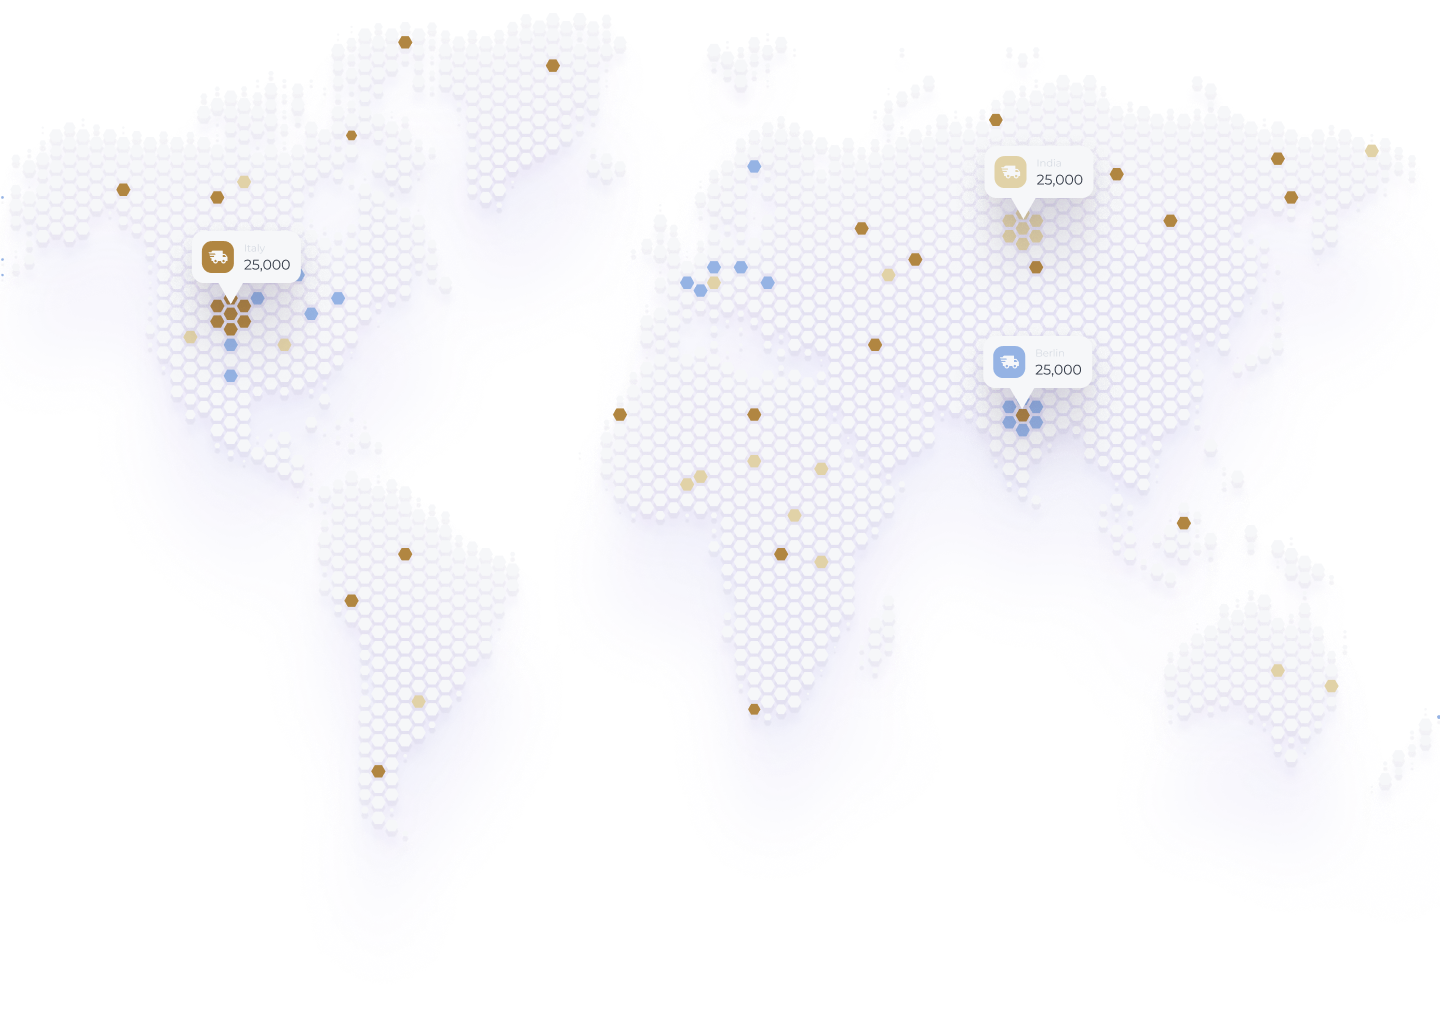
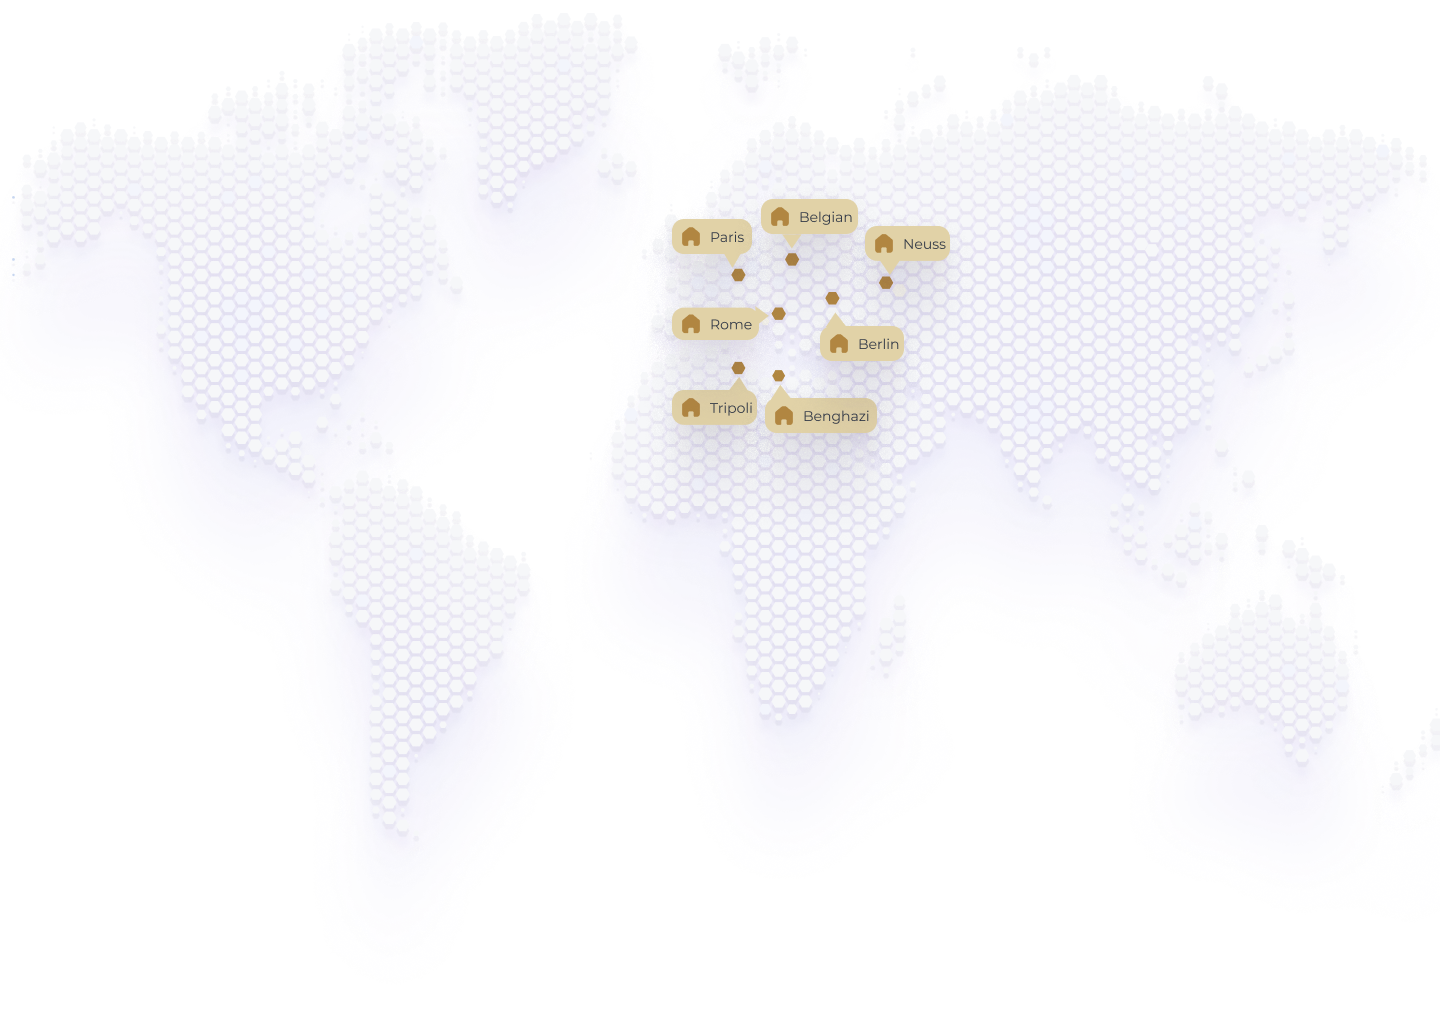
warehouses section

diff --git a/src/app/components/pages/publicPages/Home/Warehouses.tsx b/src/app/components/pages/publicPages/Home/Warehouses.tsx
@@ -1,48 +1,77 @@
-// 'use client';
-// import Title from '@/app/components/ui/Title';
-// import { useTranslations } from '@/app/hooks/useTranslations';
-// import warehouses from "../../../../../../public/warehouses-maps.png"
-// import Image from 'next/image';
-
-
-// export default function Wrehouses() {
-//     const t = useTranslations();
-
-//     return (
-//         <div className="pt-12 bg-bg-dark">
-//             <Title title={t('warehouses')} className="justify-center text-center text-lg sm:text-xl" />
-//             <Image src={warehouses} alt="warehouses" className='container py-12' />
-//         </div>
-//     );
-// }
-
 'use client';
 import Image from 'next/image';
-import { useState } from 'react';
+import { useEffect, useState, useRef } from 'react';
 import Title from '@/app/components/ui/Title';
 import { useTranslations } from '@/app/hooks/useTranslations';
-import warehousesDefault from "../../../../../../public/warehouses-default.png"
-import warehouses from "../../../../../../public/warehouses-maps.png"
+import warehousesDefault from "../../../../../../public/warehouses-default.png";
+import warehouses from "../../../../../../public/warehouses-maps.png";
+import Link from 'next/link';
+import { Button } from 'rizzui';
 
 export default function Warehouses() {
     const t = useTranslations();
-    const [hover, setHover] = useState(false);
+    const [isVisible, setIsVisible] = useState(false);
+    const sectionRef = useRef<HTMLDivElement | null>(null);
+
+    useEffect(() => {
+        const section = sectionRef.current;
+        if (!section) return;
+
+        const observer = new IntersectionObserver(
+            ([entry]) => {
+                setIsVisible(entry.intersectionRatio >= 0.6);
+            },
+            {
+                root: null,
+                threshold: Array.from({ length: 101 }, (_, i) => i / 100),
+            }
+        );
+
+        observer.observe(section);
+        return () => observer.unobserve(section);
+    }, []);
+
+    const [isMobile, setIsMobile] = useState(false);
+
+    useEffect(() => {
+        const handleResize = () => {
+            setIsMobile(window.innerWidth < 640);
+        };
+
+        handleResize();
+        window.addEventListener("resize", handleResize);
+        return () => window.removeEventListener("resize", handleResize);
+    }, []);
 
     return (
-        <div className="pt-12 bg-bg-dark">
-            <Title title={t('warehouses')} className="justify-center text-center text-lg sm:text-xl" />
-            <div
-                className="container py-12 relative w-full max-w-7xl mx-auto"
-                onMouseEnter={() => setHover(true)}
-                onMouseLeave={() => setHover(false)}
-            >
+        <div ref={sectionRef} className="pt-12 bg-bg-dark">
+            <Title title={t('warehouses')} className="justify-center pb-12" />
+            <div className="container">
                 <Image
-                    src={hover ? warehouses : warehousesDefault}
+                    src={isVisible ? warehouses : warehousesDefault}
                     alt="Warehouses Map"
-                    width={1200}
-                    height={600}
-                    className="w-full h-auto transition-opacity duration-300"
+                    className="object-cover transition-opacity duration-500"
+                    priority
                 />
+            </div>
+            <div className='flex flex-row gap-3 justify-center items-center pb-8 px-4'>
+                <Link href="/">
+                    <Button
+                        size={isMobile ? "sm" : "md"}
+                        variant="outline"
+                        className="border-gold text-gold w-full"
+                    >
+                        {t("seeMore")}
+                    </Button>
+                </Link>
+                <Link href="/sign-in">
+                    <Button
+                        size={isMobile ? "sm" : "md"}
+                        className="bg-gold text-typography w-full"
+                    >
+                        {t("signIn")}
+                    </Button>
+                </Link>
             </div>
         </div>
     );

diff --git a/src/app/components/layouts/PublicLayout/footer.tsx b/src/app/components/layouts/PublicLayout/footer.tsx
@@ -59,7 +59,10 @@ export default function Footer() {
                         <Link href="#" className="bg-white text-gold p-2 rounded-full">
                             <Instagram />
                         </Link>
-                        <Link href="#" className="bg-white text-gold p-2 rounded-full">
+                        <Link href="https://api.whatsapp.com/send/?phone=218916051666&text&type=phone_number&app_absent=0"
+                            target="_blank"
+                            rel="noopener noreferrer"
+                            className="bg-white text-gold p-2 rounded-full">
                             <Whatsapp />
                         </Link>
                     </div>

diff --git a/src/app/components/layouts/PublicLayout/menu.tsx b/src/app/components/layouts/PublicLayout/menu.tsx
@@ -116,7 +116,7 @@ export default function MainMenu() {
                         </Button>
                     </Link>
                     <Link onClick={() => setMobileMenuOpen(false)} href="/sign-in">
-                        <Button size="md" className="bg-gold text-black w-full">
+                        <Button size="md" className="bg-gold text-typography w-full">
                             {t("signIn")}
                         </Button>
                     </Link>
